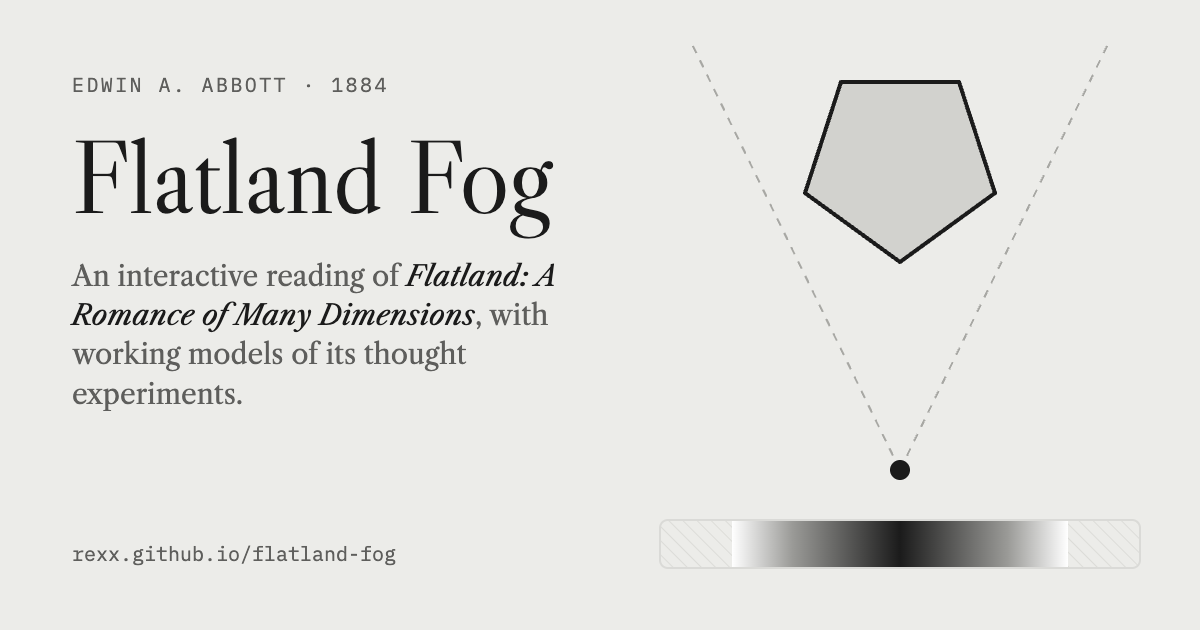
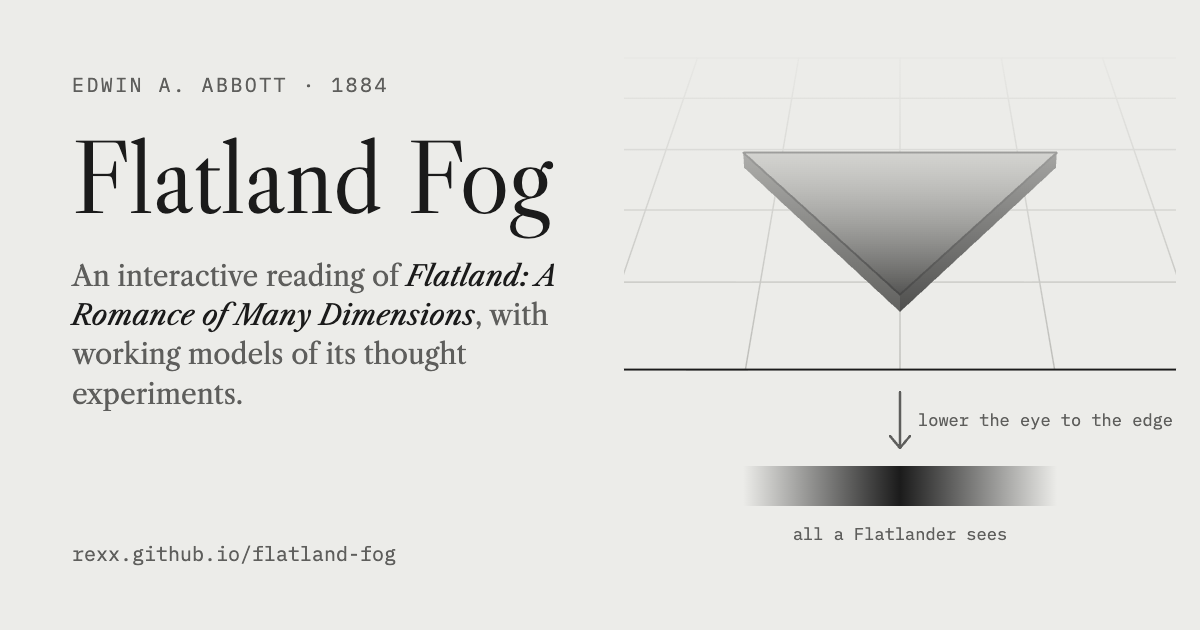
Show the opening triangle on a tilted table in the social card
The card now draws the Section I scene: a triangle lying on a table seen slightly from above, fading with distance, and below it the fogged line a Flatlander sees from the table's edge.

Changed region(s): [[0.6167, 0.1206, 0.8942, 0.5127], [0.6167, 0.6333, 0.9867, 0.9048], [0.5242, 0.573, 0.9867, 0.6032]]

diff --git a/tools/social-card.html b/tools/social-card.html
@@ -29,26 +29,50 @@ svg{display:block}
   </div>
   <svg width="600" height="630" viewBox="0 0 600 630" aria-hidden="true">
     <defs>
-      <!-- What a Flatlander sees of a Pentagon, corner first: bright at the corner, fading into the fog. -->
-      <linearGradient id="fog" x1="0" x2="1">
-        <stop offset="0" stop-color="#FFFFFF"/>
-        <stop offset="0.18" stop-color="#9A9A97"/>
-        <stop offset="0.5" stop-color="#1B1B1B"/>
-        <stop offset="0.82" stop-color="#9A9A97"/>
-        <stop offset="1" stop-color="#FFFFFF"/>
+      <clipPath id="table"><rect x="24" y="40" width="552" height="330"/></clipPath>
+      <!-- Distance haze over the table: clear near the eye, thick at the far side. -->
+      <linearGradient id="haze" x1="0" y1="1" x2="0" y2="0">
+        <stop offset="0" stop-color="#ECECE9" stop-opacity="0"/>
+        <stop offset="1" stop-color="#ECECE9" stop-opacity="0.95"/>
       </linearGradient>
-      <pattern id="hatch" width="10" height="10" patternUnits="userSpaceOnUse" patternTransform="rotate(-45)">
-        <line x1="0" y1="0" x2="0" y2="10" stroke="#DCDCD8" stroke-width="2"/>
-      </pattern>
+      <!-- The triangle's face: dark at the corner nearest the eye, fading toward the far side. -->
+      <linearGradient id="face" gradientUnits="userSpaceOnUse" x1="0" y1="295" x2="0" y2="152">
+        <stop offset="0" stop-color="#2A2A29"/>
+        <stop offset="1" stop-color="#ABABA7"/>
+      </linearGradient>
+      <!-- What a Flatlander sees of the same triangle, corner first: dark at the corner, fading into the fog. -->
+      <linearGradient id="fog" x1="0" x2="1">
+        <stop offset="0" stop-color="#ECECE9"/>
+        <stop offset="0.5" stop-color="#1B1B1B"/>
+        <stop offset="1" stop-color="#ECECE9"/>
+      </linearGradient>
     </defs>
-    <!-- From above: the Pentagon, corner toward the observer, and the observer's field of view. -->
-    <line x1="300" y1="470" x2="90" y2="40" stroke="#A8A8A4" stroke-width="2" stroke-dasharray="8 8"/>
-    <line x1="300" y1="470" x2="510" y2="40" stroke="#A8A8A4" stroke-width="2" stroke-dasharray="8 8"/>
-    <polygon points="300,262 395,193 359,82 241,82 205,193" fill="#D2D2CE" stroke="#1B1B1B" stroke-width="4" stroke-linejoin="round"/>
-    <circle cx="300" cy="470" r="10" fill="#1B1B1B"/>
-    <!-- The one line he sees. -->
-    <rect x="60" y="520" width="480" height="48" rx="8" fill="url(#hatch)" stroke="#DADAD7" stroke-width="2"/>
-    <rect x="132" y="521" width="336" height="46" fill="url(#fog)"/>
+    <!-- The table, seen slightly from above. -->
+    <g clip-path="url(#table)" stroke="#BDBDB9" stroke-width="1.5">
+      <line x1="-163.7" y1="369.6" x2="-3.8" y2="57.9"/>
+      <line x1="-9.1" y1="369.6" x2="97.5" y2="57.9"/>
+      <line x1="145.4" y1="369.6" x2="198.7" y2="57.9"/>
+      <line x1="300" y1="369.6" x2="300" y2="57.9"/>
+      <line x1="454.6" y1="369.6" x2="401.3" y2="57.9"/>
+      <line x1="609.1" y1="369.6" x2="502.5" y2="57.9"/>
+      <line x1="763.7" y1="369.6" x2="603.8" y2="57.9"/>
+      <line x1="-118.8" y1="282.1" x2="718.8" y2="282.1"/>
+      <line x1="-81.8" y1="210" x2="681.8" y2="210"/>
+      <line x1="-50.8" y1="149.6" x2="650.8" y2="149.6"/>
+      <line x1="-24.5" y1="98.3" x2="624.5" y2="98.3"/>
+      <line x1="-3.8" y1="57.9" x2="603.8" y2="57.9"/>
+    </g>
+    <!-- A triangle lying on it, one corner toward the eye. -->
+    <polygon points="300,311.9 455.9,167.7 456.8,152.6 300,294.6" fill="#2F2F2E"/>
+    <polygon points="300,311.9 144.1,167.7 143.2,152.6 300,294.6" fill="#454543"/>
+    <polygon points="300,294.6 456.8,152.6 143.2,152.6" fill="url(#face)" stroke="#1B1B1B" stroke-width="2" stroke-linejoin="round"/>
+    <rect x="24" y="40" width="552" height="330" fill="url(#haze)"/>
+    <line x1="24" y1="369.6" x2="576" y2="369.6" stroke="#1B1B1B" stroke-width="2"/>
+    <!-- Lower the eye to the table's edge and only a line is left. -->
+    <path d="M300 392 L300 446 M290 436 L300 448 L310 436" fill="none" stroke="#5E5E5C" stroke-width="2.5" stroke-linecap="round" stroke-linejoin="round"/>
+    <text x="318" y="426" font-family="IBM Plex Mono, monospace" font-size="17" fill="#5E5E5C">lower the eye to the edge</text>
+    <rect x="143" y="466" width="314" height="40" fill="url(#fog)"/>
+    <text x="300" y="540" text-anchor="middle" font-family="IBM Plex Mono, monospace" font-size="17" fill="#5E5E5C">all a Flatlander sees</text>
   </svg>
 </div>
 </body>
